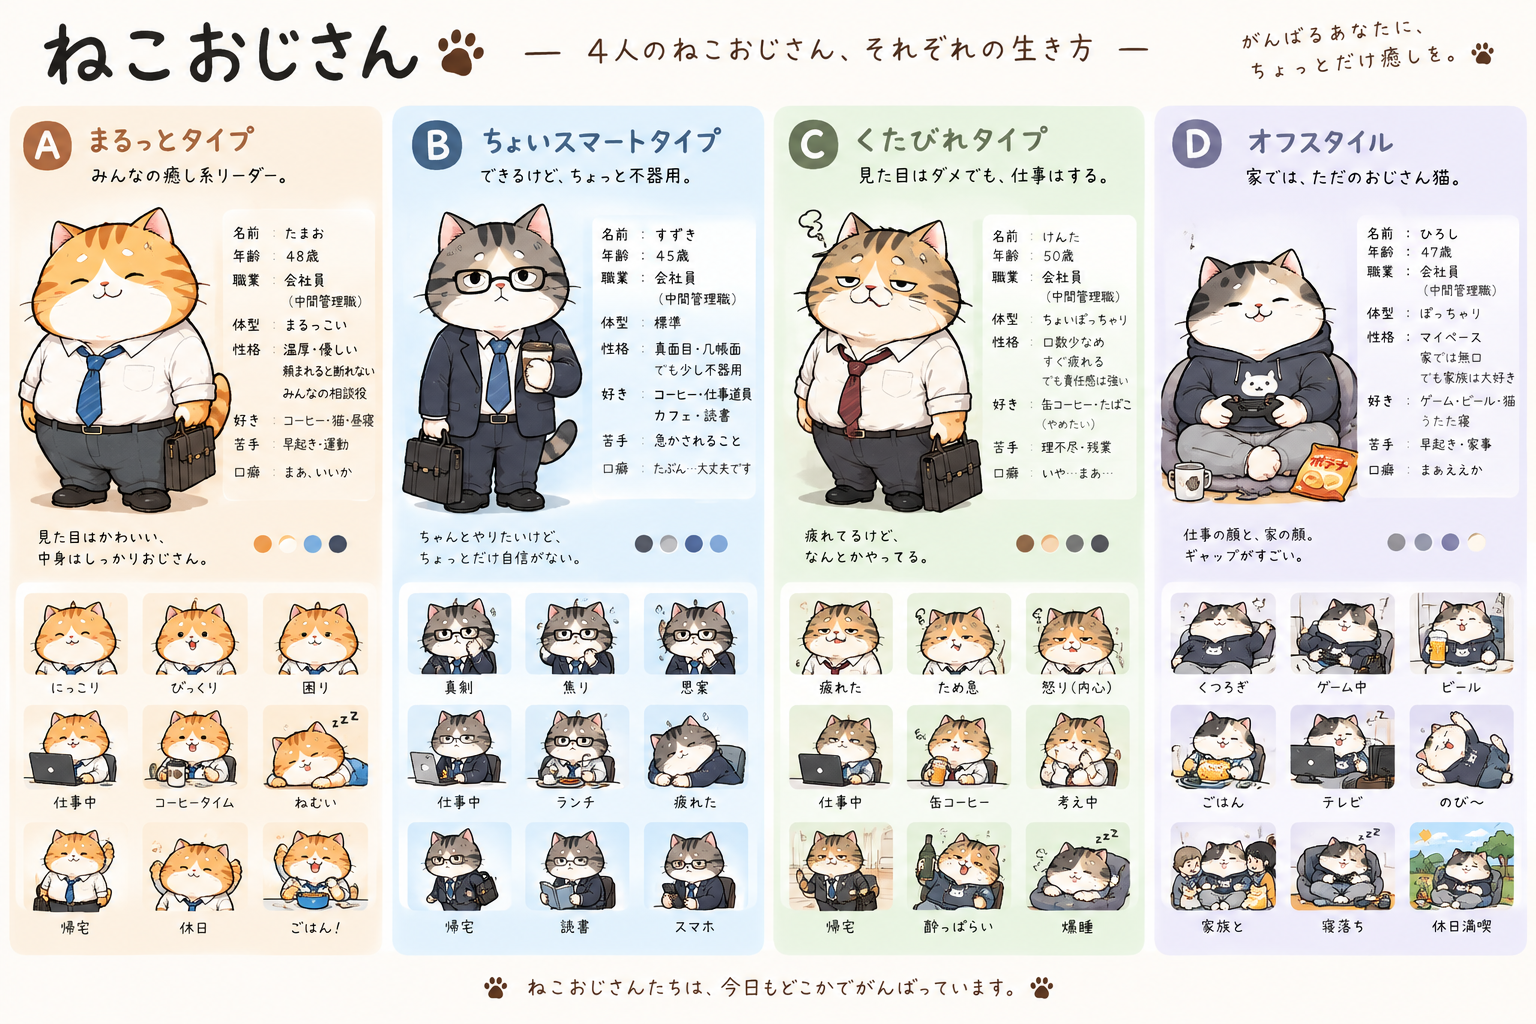
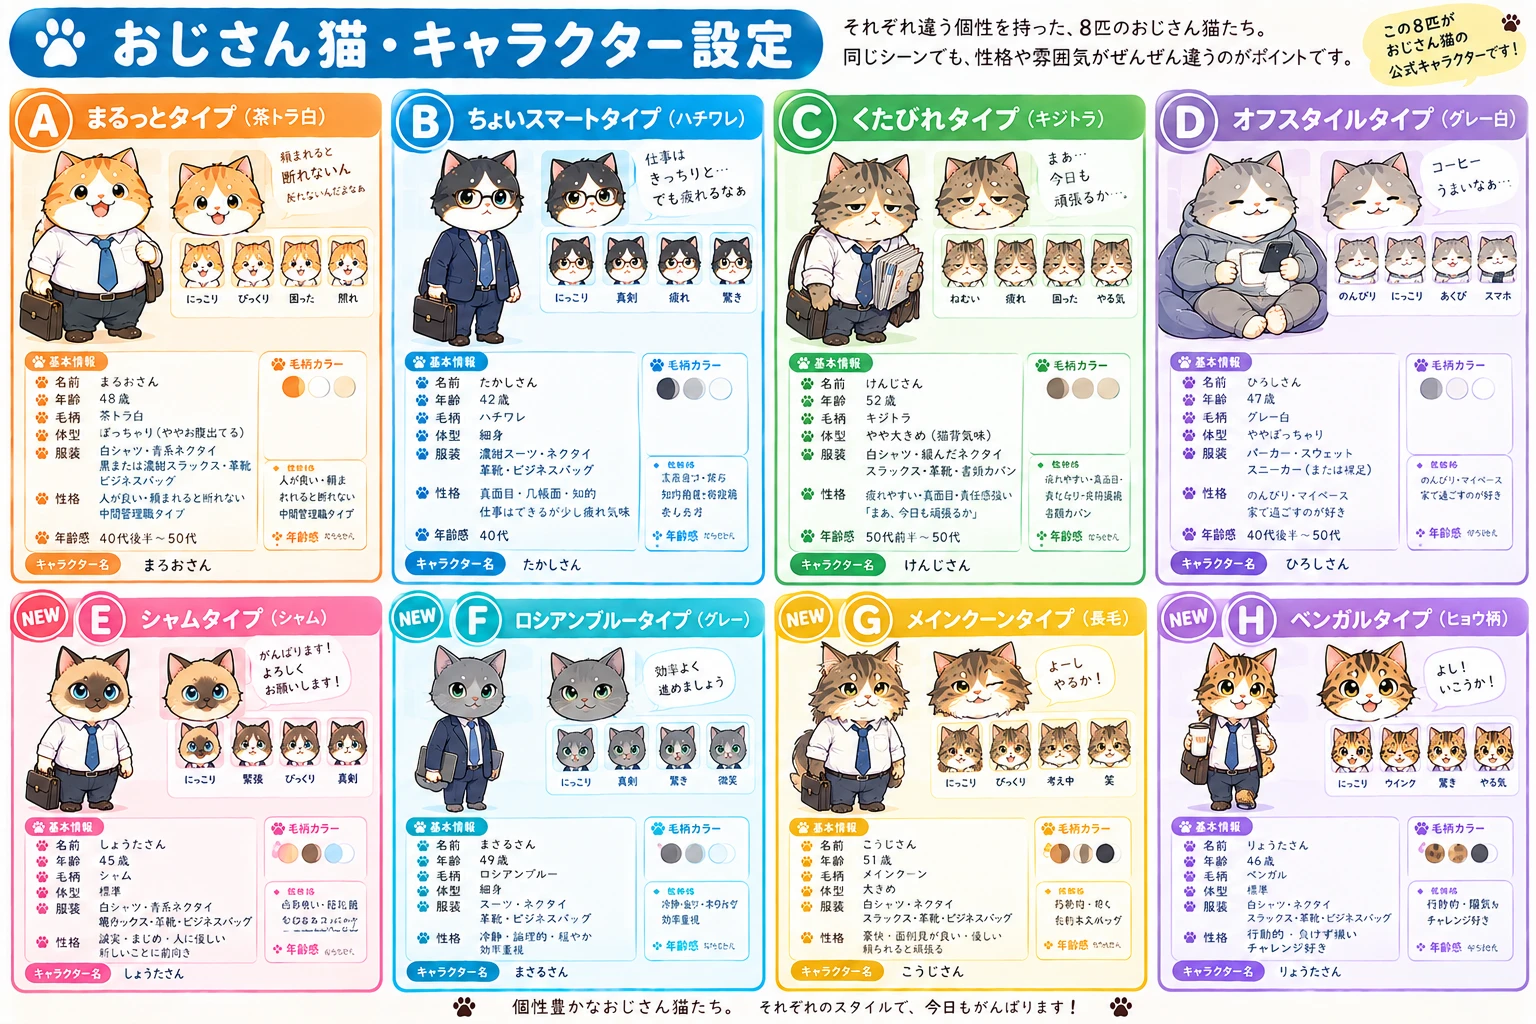
feat: cat-timer キャラクター16匹に拡充・PREVIEWセクション追加
- おじさん猫 A-D → A-H（8匹）に拡張（E-H: シャム・ロシアンブルー・メインクーン・ベンガル）
- キャラクター設定シート画像を全グループ更新
- PREVIEW セクション追加（タイマー中のサンプル画像4種類を掲載）
- 登場キャラクター数を12匹 → 16匹に更新

diff --git a/app/cat-timer/page.tsx b/app/cat-timer/page.tsx
@@ -7,7 +7,7 @@ export const metadata: Metadata = {
   alternates: { canonical: '/cat-timer' },
 }
 
-const DOWNLOAD_URL = 'https://github.com/nobinobi9000/cat-timer/releases/download/v1.0.0/CatTimer.exe'
+const DOWNLOAD_URL = 'https://github.com/nobinobi9000/cat-timer/releases/download/v1.1.0/CatTimer.exe'
 const GITHUB_URL = 'https://github.com/nobinobi9000/cat-timer'
 
 export default function CatTimerPage() {
@@ -77,7 +77,7 @@ export default function CatTimerPage() {
         <div className="mt-8 grid gap-5" style={{ gridTemplateColumns: 'repeat(auto-fit, minmax(280px, 1fr))' }}>
           {[
             { num: '01', title: 'カウントダウン最大24時間', desc: 'H:M:Sを▲▼ボタンまたは直接キーボード入力で設定。0時間0分1秒〜24時間まで対応。' },
-            { num: '02', title: 'ランダムねこ画像が常に表示', desc: 'カウントダウン中はねこ画像が8〜15秒ごとにランダム切替表示。作業しながらねこを眺められる。' },
+            { num: '02', title: 'ランダムねこ画像が常に表示', desc: 'カウントダウン中はねこ画像が8〜15秒ごとにランダム切替表示。おじさん猫・わかもの・おんなのこ計64枚から毎回違う顔が登場。' },
             { num: '03', title: 'アラーム5種類から選択', desc: '設定画面でアラーム音を5種類から選択。試聴ボタンで確認してから決められる。' },
             { num: '04', title: '起動・終了画面', desc: '起動時はスタート画面、タイマー終了時は「お時間です。」メッセージとフィニッシュ画面＋アラーム音でお知らせ。' },
             { num: '05', title: '一時停止・再開', desc: 'カウントダウン中に一時停止・再開が可能。中断してもカウントはその時点を保持。' },
@@ -91,27 +91,112 @@ export default function CatTimerPage() {
         </div>
       </section>
 
-      <section className="max-w-[1200px] mx-auto px-6 py-[72px]">
-        <div className="text-[13px] font-bold tracking-[0.08em] text-[#999999]">CHARACTERS — ねこおじさん詳細設定</div>
-        <p className="mt-4 text-[15px] leading-[1.85] text-[#444444] max-w-[640px]">
-          タイマーに登場する4人のねこおじさんたち。アプリの設定画面から「ねこおじさんの詳細設定」を開くと、それぞれのキャラクタープロフィールと表情バリエーションを確認できます。
-        </p>
-        <div className="mt-8 rounded-2xl overflow-hidden border border-[#EBEBEB] shadow-sm">
-          <img src="/screenshots/cat-timer-characters.png" alt="ねこおじさん キャラクター詳細" className="w-full h-auto block" />
+      <section className="bg-[#FFF8F5] py-[72px] px-6">
+        <div className="max-w-[1200px] mx-auto">
+          <div className="text-[13px] font-bold tracking-[0.08em] text-[#999999]">PREVIEW — タイマー中の表示イメージ</div>
+          <p className="mt-4 text-[15px] leading-[1.85] text-[#444444] max-w-[640px]">
+            8〜15秒ごとにランダムで切り替わる。こんな感じで、ずっとねこがいる。
+          </p>
+          <div className="mt-8 grid gap-4" style={{ gridTemplateColumns: 'repeat(auto-fit, minmax(240px, 1fr))' }}>
+            {[
+              { src: '/screenshots/cat-timer-sample-1.png', caption: 'おじさん猫A — プレゼン中' },
+              { src: '/screenshots/cat-timer-sample-2.png', caption: 'おじさん猫F — のびをする' },
+              { src: '/screenshots/cat-timer-sample-3.png', caption: 'わかいねこG — 会議を仕切る' },
+              { src: '/screenshots/cat-timer-sample-4.png', caption: 'おんなのこI — コーヒータイム' },
+            ].map(s => (
+              <div key={s.src} className="rounded-2xl overflow-hidden border border-[#EBEBEB] bg-white shadow-sm">
+                <img src={s.src} alt={s.caption} className="w-full h-auto block" />
+                <div className="px-4 py-3 text-[13px] text-[#555555] font-medium text-center">{s.caption}</div>
+              </div>
+            ))}
+          </div>
         </div>
-        <div className="mt-6 grid gap-4" style={{ gridTemplateColumns: 'repeat(auto-fit, minmax(220px, 1fr))' }}>
-          {[
-            { label: 'A', name: 'たまお（48歳）', type: 'まるっとタイプ', desc: 'みんなの癒し系リーダー。口癖は「まあ、いいか」。' },
-            { label: 'B', name: 'すずき（45歳）', type: 'ちょいスマートタイプ', desc: 'できるけど、ちょっと不器用。口癖は「たぶん、大丈夫です」。' },
-            { label: 'C', name: 'けんた（50歳）', type: 'くたびれタイプ', desc: '見た目はダメでも、仕事はする。口癖は「いや…まあ…」。' },
-            { label: 'D', name: 'ひろし（47歳）', type: 'オフスタイル', desc: '家では、ただのおじさん猫。口癖は「まあええか」。' },
-          ].map(c => (
-            <div key={c.label} className="border border-[#EBEBEB] rounded-xl p-5 hover:border-[#f97316] transition-colors">
-              <div className="text-[12px] font-extrabold tracking-[0.06em] mb-2" style={{ color: '#f97316' }}>{c.label} — {c.type}</div>
-              <div className="text-[15px] font-extrabold">{c.name}</div>
-              <p className="mt-2 text-[13px] leading-[1.7] text-[#555555]">{c.desc}</p>
-            </div>
-          ))}
+      </section>
+
+      <section className="max-w-[1200px] mx-auto px-6 py-[72px]">
+        <div className="text-[13px] font-bold tracking-[0.08em] text-[#999999]">CHARACTERS — 登場するねこたち</div>
+        <p className="mt-4 text-[15px] leading-[1.85] text-[#444444] max-w-[640px]">
+          タイマーに登場するのは個性豊かな16匹のねこたち。おじさん猫・わかもの・おんなのこねこ、それぞれにキャラクター設定があります。アプリの設定画面からプロフィールを確認できます。
+        </p>
+
+        <div className="mt-10">
+          <div className="text-[12px] font-bold tracking-[0.06em] text-[#999999] mb-4">🐱 おじさん猫（A〜H）</div>
+          <div className="mb-6 rounded-2xl overflow-hidden border border-[#EBEBEB] shadow-sm">
+            <img src="/screenshots/cat-timer-characters.png" alt="ねこおじさん キャラクター詳細" className="w-full h-auto block" />
+          </div>
+          <div className="grid gap-4" style={{ gridTemplateColumns: 'repeat(auto-fit, minmax(220px, 1fr))' }}>
+            {[
+              { label: 'A', name: 'まるおさん（48歳）', type: 'まるっとタイプ', desc: '頼まれると断れない優しいおじさん。茶トラ白のほんわか系。' },
+              { label: 'B', name: 'たかしさん（42歳）', type: 'ちょいスマートタイプ', desc: '真面目で知的、仕事はきっちり。ハチワレのメガネおじさん。' },
+              { label: 'C', name: 'けんじさん（52歳）', type: 'くたびれタイプ', desc: '疲れた中間管理職。口癖は「まあ、今日も頑張るか…」。' },
+              { label: 'D', name: 'ひろしさん（47歳）', type: 'オフスタイルタイプ', desc: 'のんびりマイペース。家で過ごすのがいちばん好き。' },
+            ].map(c => (
+              <div key={c.label} className="border border-[#EBEBEB] rounded-xl p-5 hover:border-[#f97316] transition-colors">
+                <div className="text-[12px] font-extrabold tracking-[0.06em] mb-2" style={{ color: '#f97316' }}>{c.label} — {c.type}</div>
+                <div className="text-[15px] font-extrabold">{c.name}</div>
+                <p className="mt-2 text-[13px] leading-[1.7] text-[#555555]">{c.desc}</p>
+              </div>
+            ))}
+          </div>
+          <div className="grid gap-4 mt-4" style={{ gridTemplateColumns: 'repeat(auto-fit, minmax(220px, 1fr))' }}>
+            {[
+              { label: 'E', name: 'しょうたさん（45歳）', type: 'シャムタイプ', desc: '誠実でまじめ、人に優しい。新しいことへの挑戦が好き。' },
+              { label: 'F', name: 'まさるさん（49歳）', type: 'ロシアンブルータイプ', desc: '冷静・論理的・穏やか。いつも効率を重視するスマートおじさん。' },
+              { label: 'G', name: 'こうじさん（51歳）', type: 'メインクーンタイプ', desc: '義理・面倒見がいい。ちょっと口が悪いけど根は優しい。' },
+              { label: 'H', name: 'りょうたさん（46歳）', type: 'ベンガルタイプ', desc: '行動的で陽気、チャレンジが好きなエネルギッシュなおじさん。' },
+            ].map(c => (
+              <div key={c.label} className="border border-[#EBEBEB] rounded-xl p-5 hover:border-[#f97316] transition-colors">
+                <div className="flex items-center gap-2 mb-2">
+                  <div className="text-[12px] font-extrabold tracking-[0.06em]" style={{ color: '#f97316' }}>{c.label} — {c.type}</div>
+                  <span className="text-[10px] font-bold px-1.5 py-0.5 rounded text-white" style={{ background: '#f97316' }}>NEW</span>
+                </div>
+                <div className="text-[15px] font-extrabold">{c.name}</div>
+                <p className="mt-2 text-[13px] leading-[1.7] text-[#555555]">{c.desc}</p>
+              </div>
+            ))}
+          </div>
+        </div>
+
+        <div className="mt-14">
+          <div className="text-[12px] font-bold tracking-[0.06em] text-[#999999] mb-4">🐱 わかいねこ（E〜H）</div>
+          <div className="mb-6 rounded-2xl overflow-hidden border border-[#EBEBEB] shadow-sm">
+            <img src="/screenshots/cat-timer-characters-wakamono.png" alt="わかいねこ キャラクター詳細" className="w-full h-auto block" />
+          </div>
+          <div className="grid gap-4" style={{ gridTemplateColumns: 'repeat(auto-fit, minmax(220px, 1fr))' }}>
+            {[
+              { label: 'E', name: 'はると（20代）', type: '若者ノーマルタイプ', desc: 'まっすぐで元気！新人のがんばり屋さん。口癖は「よろしくお願いします！」。' },
+              { label: 'F', name: 'そうた（20代）', type: '若者スマートタイプ', desc: 'クールでおしゃれ。仕事もプライベートも楽しみたい。メガネがトレードマーク。' },
+              { label: 'G', name: 'りく（20代）', type: '若者やんちゃタイプ', desc: '明るくて元気！ちょっとドジだけど前向き。口癖は「やってみよ！」。' },
+              { label: 'H', name: 'けんた（20代）', type: '若者オフタイプ', desc: 'のんびりマイペース。好きなことが最優先。口癖は「まあ、いっか〜」。' },
+            ].map(c => (
+              <div key={c.label} className="border border-[#EBEBEB] rounded-xl p-5 hover:border-[#f97316] transition-colors">
+                <div className="text-[12px] font-extrabold tracking-[0.06em] mb-2" style={{ color: '#f97316' }}>{c.label} — {c.type}</div>
+                <div className="text-[15px] font-extrabold">{c.name}</div>
+                <p className="mt-2 text-[13px] leading-[1.7] text-[#555555]">{c.desc}</p>
+              </div>
+            ))}
+          </div>
+        </div>
+
+        <div className="mt-14">
+          <div className="text-[12px] font-bold tracking-[0.06em] text-[#999999] mb-4">🐱 おんなのこねこ（I〜L）</div>
+          <div className="mb-6 rounded-2xl overflow-hidden border border-[#EBEBEB] shadow-sm">
+            <img src="/screenshots/cat-timer-characters-onnano.png" alt="おんなのこねこ キャラクター詳細" className="w-full h-auto block" />
+          </div>
+          <div className="grid gap-4" style={{ gridTemplateColumns: 'repeat(auto-fit, minmax(220px, 1fr))' }}>
+            {[
+              { label: 'I', name: 'みこ（20代）', type: '女の子ノーマルタイプ', desc: '明るくて真面目な新入社員。みんなから好かれる癒し系。' },
+              { label: 'J', name: 'あやか（20代）', type: '女の子おっとりタイプ', desc: '穏やかで優しい。マイペースだけど周りを和ませる存在。' },
+              { label: 'K', name: 'ひより（20代）', type: '女の子元気タイプ', desc: '明るくて行動的。ちょっとドジだけどめげない前向きさ。口癖は「よっし！」。' },
+              { label: 'L', name: 'るな（20代）', type: '女の子クールタイプ', desc: '落ち着いていて知的。仕事ができるクールな女の子。でも実はちょっと甘えん坊。' },
+            ].map(c => (
+              <div key={c.label} className="border border-[#EBEBEB] rounded-xl p-5 hover:border-[#f97316] transition-colors">
+                <div className="text-[12px] font-extrabold tracking-[0.06em] mb-2" style={{ color: '#f97316' }}>{c.label} — {c.type}</div>
+                <div className="text-[15px] font-extrabold">{c.name}</div>
+                <p className="mt-2 text-[13px] leading-[1.7] text-[#555555]">{c.desc}</p>
+              </div>
+            ))}
+          </div>
         </div>
       </section>
 

diff --git a/lib/apps.ts b/lib/apps.ts
@@ -74,7 +74,7 @@ export const APPS: App[] = [
     desc: 'カウントダウン中にねこ画像がランダム表示されるデスクトップタイマー。MAX 24時間・アラーム5種類・Windows用無料EXE。',
     story: 'WEB版ねこおじさんタイマーをデスクトップアプリとして作り直した。画面にずっとねこが映り続けるタイマーが欲しかった。',
     tags: ['無料', 'Windows 10/11', 'デスクトップアプリ', 'EXE'],
-    ctaUrl: 'https://github.com/nobinobi9000/cat-timer/releases/download/v1.0.0/CatTimer.exe',
+    ctaUrl: 'https://github.com/nobinobi9000/cat-timer/releases/download/v1.1.0/CatTimer.exe',
     ctaLabel: 'ダウンロード →',
     detailUrl: '/cat-timer',
     category: 'Life',
